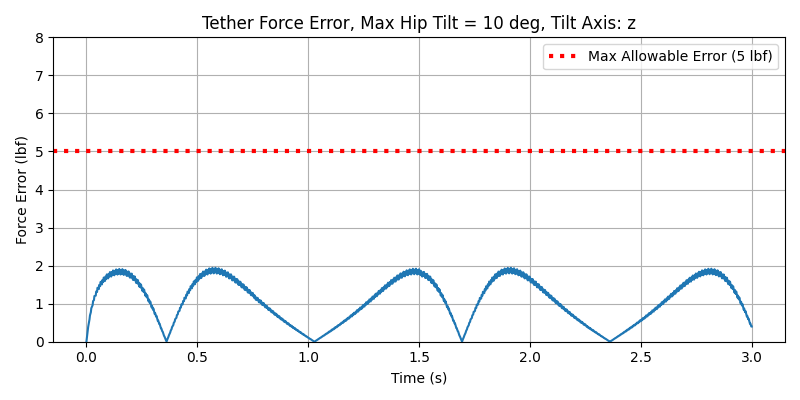
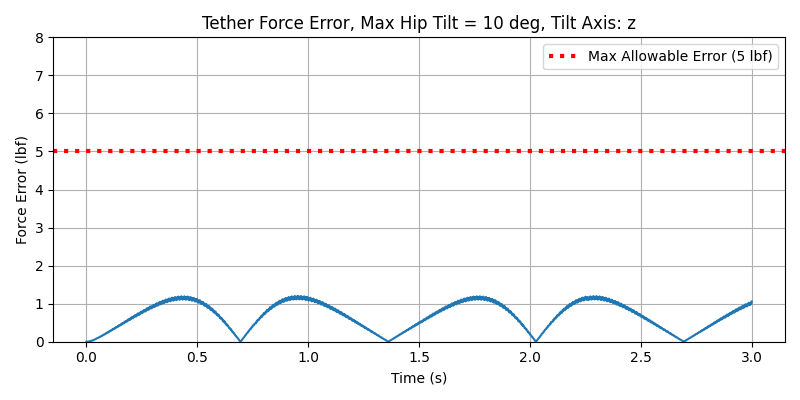
more plot updates ugh

diff --git a/modeling/dynamic_models/2_Tether_Dynamic_Model.py b/modeling/dynamic_models/2_Tether_Dynamic_Model.py
@@ -74,7 +74,7 @@ def simulate_tilting_motion(time_steps, dt, initial_height, tilt_axis):
     if tilt_axis.lower() == 'y':
         y_tilt = np.deg2rad(10) * np.sin(2 * np.pi * 0.75 * time)  # ±10 degrees in y
     elif tilt_axis.lower() == 'z':
-        z_trans = 0.82021 * np.sin(2 * np.pi * 0.75 * time)
+        z_trans = (-0.82021 * np.cos(2 * np.pi * 0.75 * time) + 0.82021)/2
     else:
         raise ValueError("tilt_axis must be either 'y' or 'z'")
     
@@ -271,7 +271,7 @@ def main():
     teth_anchor = p.teth_anchor
     offset = p.offset
     max_hip_tilt = 10
-    tilt_axis = 'y'
+    tilt_axis = 'z'
     # Time parameters
     duration = 3.0  # seconds (5 complete cycles at 1Hz)
     dt = p.dt # time step (essentially our sensor suite update rate)

diff --git a/modeling/dynamic_models/3_Tether_Dynamic_Model.py b/modeling/dynamic_models/3_Tether_Dynamic_Model.py
@@ -98,7 +98,7 @@ def simulate_tilting_motion(time_steps, dt, initial_height, tilt_axis='x'):
     elif tilt_axis.lower() == 'y':
         y_tilt = np.deg2rad(10) * np.sin(2 * np.pi * 0.75 * time)  # ±10 degrees in y
     elif tilt_axis.lower() == 'z':
-        z_trans = 0.82021 * np.sin(2 * np.pi * 0.75 * time)
+        z_trans = (-0.82021 * np.cos(2 * np.pi * 0.75 * time) + 0.82021)/2
     else:
         raise ValueError("tilt_axis must be either 'x', 'y', or 'z'")
     
@@ -364,7 +364,7 @@ def main():
     t1 = 0
     
     # Set tilt axis ('x' or 'y')
-    tilt_axis = 'y'
+    tilt_axis = 'z'
     
     # Generate COM movement and tilt angles
     positions, tilt_angles = simulate_tilting_motion(time_steps, dt, initial_height, tilt_axis)

diff --git a/modeling/dynamic_models/Parameters_2_Tether_Dynamic_Model.py b/modeling/dynamic_models/Parameters_2_Tether_Dynamic_Model.py
@@ -1,12 +1,12 @@
 import numpy as np
 
 class Parameters:
-    mass = 100.0  # person's weight (lb)
-    r = 2 / (2 * np.pi)  # waist radius (ft)
-    waist_height = -2.5
-    # mass = 200.0  # person's weight (lb)
-    # r = 3 / (2 * np.pi)  # waist radius (ft)
-    # waist_height = -3.1
+    # mass = 100.0  # person's weight (lb)
+    # r = 2 / (2 * np.pi)  # waist radius (ft)
+    # waist_height = -2.5
+    mass = 200.0  # person's weight (lb)
+    r = 3 / (2 * np.pi)  # waist radius (ft)
+    waist_height = -3.1
 
     # tether anchor loc 3x3 each row is the vector for each tether
     # assuming anchor locations are radially 2 feet away from person 120 degrees away from each other

diff --git a/modeling/dynamic_models/Parameters_3_Tether_Dynamic_Model.py b/modeling/dynamic_models/Parameters_3_Tether_Dynamic_Model.py
@@ -1,12 +1,12 @@
 import numpy as np
 
 class Parameters:
-    # mass = 100.0  # person's weight (lb)
-    # r = 2 / (2 * np.pi)  # waist radius (ft)
-    # waist_height = -2.5
-    mass = 200.0  # person's weight (lb)
-    r = 3 / (2 * np.pi)  # waist radius (ft)
-    waist_height = -3.1
+    mass = 100.0  # person's weight (lb)
+    r = 2 / (2 * np.pi)  # waist radius (ft)
+    waist_height = -2.5
+    # mass = 200.0  # person's weight (lb)
+    # r = 3 / (2 * np.pi)  # waist radius (ft)
+    # waist_height = -3.1
 
     # tether anchor loc 3x3 each row is the vector for each tether
     teth_anchor = [[-2,                      0.0,                     0.0],
